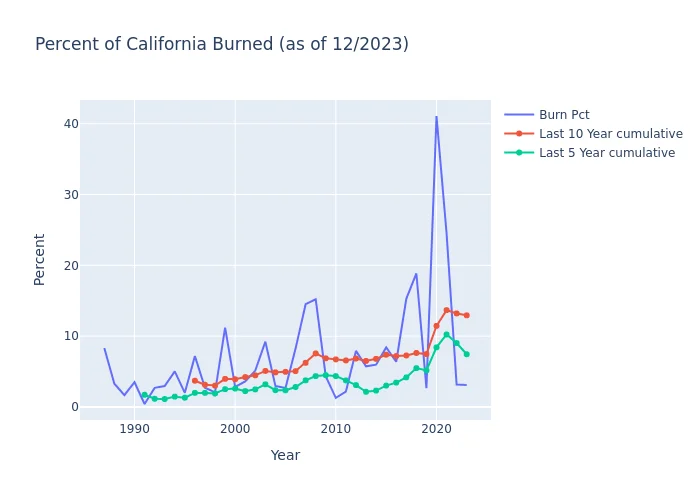
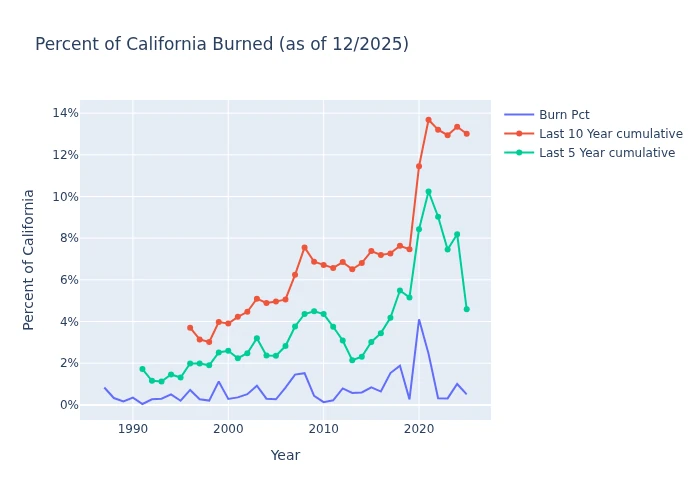
Update fire chart: per-year burn percentage was 10x too high
Regenerated from NickRoss/firestats@15fb089. The per-year series was
transcribed against a denominator 10x too small, so the chart claimed
41.09% of California burned in 2020 — the true figure is 4.11%.

The 5- and 10-year cumulative series were already correct, so the
"over the last 10 years fires burned more than 10% of the state" line
in content/research/2021_Fire_Data.md (13.01%) still holds and is
unchanged.

diff --git a/static/charts/fire_stats.html b/static/charts/fire_stats.html
@@ -1,7 +1,11 @@
+<!doctype html>
 <html>
-<head><meta charset="utf-8" /></head>
+<head>
+    <meta charset="utf-8" />
+    <style>html, body {height: 100%;}</style>
+</head>
 <body>
-    <div>                        <script type="text/javascript">window.PlotlyConfig = {MathJaxConfig: 'local'};</script>
-        <script charset="utf-8" src="https://cdn.plot.ly/plotly-2.30.0.min.js"></script>                <div id="49349b35-52e2-4d83-bbe2-0abdf59c44f2" class="plotly-graph-div" style="height:100%; width:100%;"></div>            <script type="text/javascript">                                    window.PLOTLYENV=window.PLOTLYENV || {};                                    if (document.getElementById("49349b35-52e2-4d83-bbe2-0abdf59c44f2")) {                    Plotly.newPlot(                        "49349b35-52e2-4d83-bbe2-0abdf59c44f2",                        [{"mode":"lines","name":"Burn Pct","x":[2025,2024,2023,2022,2021,2020,2019,2018,2017,2016,2015,2014,2013,2012,2011,2010,2009,2008,2007,2006,2005,2004,2003,2002,2001,2000,1999,1998,1997,1996,1995,1994,1993,1992,1991,1990,1989,1988,1987],"y":[5.01,10.02,3.1,3.16,24.53,41.09,2.65,18.85,15.27,6.39,8.41,5.97,5.74,7.92,2.18,1.28,4.31,15.21,14.51,8.24,2.67,2.97,9.22,5.14,3.6,2.82,11.2,2.06,2.71,7.18,2.0,5.02,2.96,2.7,0.42,3.49,1.66,3.29,8.33],"type":"scatter"},{"mode":"lines+markers","name":"Last 10 Year cumulative","x":[2025,2024,2023,2022,2021,2020,2019,2018,2017,2016,2015,2014,2013,2012,2011,2010,2009,2008,2007,2006,2005,2004,2003,2002,2001,2000,1999,1998,1997,1996,1995,1994,1993,1992,1991,1990,1989,1988,1987],"y":[13.01,13.35,12.94,13.21,13.68,11.45,7.47,7.63,7.27,7.19,7.38,6.8,6.5,6.85,6.57,6.72,6.87,7.56,6.24,5.06,4.96,4.89,5.09,4.47,4.22,3.91,3.97,3.02,3.14,3.71,null,null,null,null,null,null,null,null,null],"type":"scatter"},{"mode":"lines+markers","name":"Last 5 Year cumulative","x":[2025,2024,2023,2022,2021,2020,2019,2018,2017,2016,2015,2014,2013,2012,2011,2010,2009,2008,2007,2006,2005,2004,2003,2002,2001,2000,1999,1998,1997,1996,1995,1994,1993,1992,1991,1990,1989,1988,1987],"y":[4.58,8.19,7.45,9.03,10.24,8.42,5.16,5.49,4.18,3.44,3.02,2.31,2.14,3.09,3.75,4.36,4.49,4.36,3.76,2.82,2.36,2.37,3.2,2.48,2.24,2.6,2.51,1.9,1.99,1.99,1.31,1.46,1.12,1.16,1.72,null,null,null,null],"type":"scatter"}],                        {"template":{"data":{"histogram2dcontour":[{"type":"histogram2dcontour","colorbar":{"outlinewidth":0,"ticks":""},"colorscale":[[0.0,"#0d0887"],[0.1111111111111111,"#46039f"],[0.2222222222222222,"#7201a8"],[0.3333333333333333,"#9c179e"],[0.4444444444444444,"#bd3786"],[0.5555555555555556,"#d8576b"],[0.6666666666666666,"#ed7953"],[0.7777777777777778,"#fb9f3a"],[0.8888888888888888,"#fdca26"],[1.0,"#f0f921"]]}],"choropleth":[{"type":"choropleth","colorbar":{"outlinewidth":0,"ticks":""}}],"histogram2d":[{"type":"histogram2d","colorbar":{"outlinewidth":0,"ticks":""},"colorscale":[[0.0,"#0d0887"],[0.1111111111111111,"#46039f"],[0.2222222222222222,"#7201a8"],[0.3333333333333333,"#9c179e"],[0.4444444444444444,"#bd3786"],[0.5555555555555556,"#d8576b"],[0.6666666666666666,"#ed7953"],[0.7777777777777778,"#fb9f3a"],[0.8888888888888888,"#fdca26"],[1.0,"#f0f921"]]}],"heatmap":[{"type":"heatmap","colorbar":{"outlinewidth":0,"ticks":""},"colorscale":[[0.0,"#0d0887"],[0.1111111111111111,"#46039f"],[0.2222222222222222,"#7201a8"],[0.3333333333333333,"#9c179e"],[0.4444444444444444,"#bd3786"],[0.5555555555555556,"#d8576b"],[0.6666666666666666,"#ed7953"],[0.7777777777777778,"#fb9f3a"],[0.8888888888888888,"#fdca26"],[1.0,"#f0f921"]]}],"heatmapgl":[{"type":"heatmapgl","colorbar":{"outlinewidth":0,"ticks":""},"colorscale":[[0.0,"#0d0887"],[0.1111111111111111,"#46039f"],[0.2222222222222222,"#7201a8"],[0.3333333333333333,"#9c179e"],[0.4444444444444444,"#bd3786"],[0.5555555555555556,"#d8576b"],[0.6666666666666666,"#ed7953"],[0.7777777777777778,"#fb9f3a"],[0.8888888888888888,"#fdca26"],[1.0,"#f0f921"]]}],"contourcarpet":[{"type":"contourcarpet","colorbar":{"outlinewidth":0,"ticks":""}}],"contour":[{"type":"contour","colorbar":{"outlinewidth":0,"ticks":""},"colorscale":[[0.0,"#0d0887"],[0.1111111111111111,"#46039f"],[0.2222222222222222,"#7201a8"],[0.3333333333333333,"#9c179e"],[0.4444444444444444,"#bd3786"],[0.5555555555555556,"#d8576b"],[0.6666666666666666,"#ed7953"],[0.7777777777777778,"#fb9f3a"],[0.8888888888888888,"#fdca26"],[1.0,"#f0f921"]]}],"surface":[{"type":"surface","colorbar":{"outlinewidth":0,"ticks":""},"colorscale":[[0.0,"#0d0887"],[0.1111111111111111,"#46039f"],[0.2222222222222222,"#7201a8"],[0.3333333333333333,"#9c179e"],[0.4444444444444444,"#bd3786"],[0.5555555555555556,"#d8576b"],[0.6666666666666666,"#ed7953"],[0.7777777777777778,"#fb9f3a"],[0.8888888888888888,"#fdca26"],[1.0,"#f0f921"]]}],"mesh3d":[{"type":"mesh3d","colorbar":{"outlinewidth":0,"ticks":""}}],"scatter":[{"fillpattern":{"fillmode":"overlay","size":10,"solidity":0.2},"type":"scatter"}],"parcoords":[{"type":"parcoords","line":{"colorbar":{"outlinewidth":0,"ticks":""}}}],"scatterpolargl":[{"type":"scatterpolargl","marker":{"colorbar":{"outlinewidth":0,"ticks":""}}}],"bar":[{"error_x":{"color":"#2a3f5f"},"error_y":{"color":"#2a3f5f"},"marker":{"line":{"color":"#E5ECF6","width":0.5},"pattern":{"fillmode":"overlay","size":10,"solidity":0.2}},"type":"bar"}],"scattergeo":[{"type":"scattergeo","marker":{"colorbar":{"outlinewidth":0,"ticks":""}}}],"scatterpolar":[{"type":"scatterpolar","marker":{"colorbar":{"outlinewidth":0,"ticks":""}}}],"histogram":[{"marker":{"pattern":{"fillmode":"overlay","size":10,"solidity":0.2}},"type":"histogram"}],"scattergl":[{"type":"scattergl","marker":{"colorbar":{"outlinewidth":0,"ticks":""}}}],"scatter3d":[{"type":"scatter3d","line":{"colorbar":{"outlinewidth":0,"ticks":""}},"marker":{"colorbar":{"outlinewidth":0,"ticks":""}}}],"scattermapbox":[{"type":"scattermapbox","marker":{"colorbar":{"outlinewidth":0,"ticks":""}}}],"scatterternary":[{"type":"scatterternary","marker":{"colorbar":{"outlinewidth":0,"ticks":""}}}],"scattercarpet":[{"type":"scattercarpet","marker":{"colorbar":{"outlinewidth":0,"ticks":""}}}],"carpet":[{"aaxis":{"endlinecolor":"#2a3f5f","gridcolor":"white","linecolor":"white","minorgridcolor":"white","startlinecolor":"#2a3f5f"},"baxis":{"endlinecolor":"#2a3f5f","gridcolor":"white","linecolor":"white","minorgridcolor":"white","startlinecolor":"#2a3f5f"},"type":"carpet"}],"table":[{"cells":{"fill":{"color":"#EBF0F8"},"line":{"color":"white"}},"header":{"fill":{"color":"#C8D4E3"},"line":{"color":"white"}},"type":"table"}],"barpolar":[{"marker":{"line":{"color":"#E5ECF6","width":0.5},"pattern":{"fillmode":"overlay","size":10,"solidity":0.2}},"type":"barpolar"}],"pie":[{"automargin":true,"type":"pie"}]},"layout":{"autotypenumbers":"strict","colorway":["#636efa","#EF553B","#00cc96","#ab63fa","#FFA15A","#19d3f3","#FF6692","#B6E880","#FF97FF","#FECB52"],"font":{"color":"#2a3f5f"},"hovermode":"closest","hoverlabel":{"align":"left"},"paper_bgcolor":"white","plot_bgcolor":"#E5ECF6","polar":{"bgcolor":"#E5ECF6","angularaxis":{"gridcolor":"white","linecolor":"white","ticks":""},"radialaxis":{"gridcolor":"white","linecolor":"white","ticks":""}},"ternary":{"bgcolor":"#E5ECF6","aaxis":{"gridcolor":"white","linecolor":"white","ticks":""},"baxis":{"gridcolor":"white","linecolor":"white","ticks":""},"caxis":{"gridcolor":"white","linecolor":"white","ticks":""}},"coloraxis":{"colorbar":{"outlinewidth":0,"ticks":""}},"colorscale":{"sequential":[[0.0,"#0d0887"],[0.1111111111111111,"#46039f"],[0.2222222222222222,"#7201a8"],[0.3333333333333333,"#9c179e"],[0.4444444444444444,"#bd3786"],[0.5555555555555556,"#d8576b"],[0.6666666666666666,"#ed7953"],[0.7777777777777778,"#fb9f3a"],[0.8888888888888888,"#fdca26"],[1.0,"#f0f921"]],"sequentialminus":[[0.0,"#0d0887"],[0.1111111111111111,"#46039f"],[0.2222222222222222,"#7201a8"],[0.3333333333333333,"#9c179e"],[0.4444444444444444,"#bd3786"],[0.5555555555555556,"#d8576b"],[0.6666666666666666,"#ed7953"],[0.7777777777777778,"#fb9f3a"],[0.8888888888888888,"#fdca26"],[1.0,"#f0f921"]],"diverging":[[0,"#8e0152"],[0.1,"#c51b7d"],[0.2,"#de77ae"],[0.3,"#f1b6da"],[0.4,"#fde0ef"],[0.5,"#f7f7f7"],[0.6,"#e6f5d0"],[0.7,"#b8e186"],[0.8,"#7fbc41"],[0.9,"#4d9221"],[1,"#276419"]]},"xaxis":{"gridcolor":"white","linecolor":"white","ticks":"","title":{"standoff":15},"zerolinecolor":"white","automargin":true,"zerolinewidth":2},"yaxis":{"gridcolor":"white","linecolor":"white","ticks":"","title":{"standoff":15},"zerolinecolor":"white","automargin":true,"zerolinewidth":2},"scene":{"xaxis":{"backgroundcolor":"#E5ECF6","gridcolor":"white","linecolor":"white","showbackground":true,"ticks":"","zerolinecolor":"white","gridwidth":2},"yaxis":{"backgroundcolor":"#E5ECF6","gridcolor":"white","linecolor":"white","showbackground":true,"ticks":"","zerolinecolor":"white","gridwidth":2},"zaxis":{"backgroundcolor":"#E5ECF6","gridcolor":"white","linecolor":"white","showbackground":true,"ticks":"","zerolinecolor":"white","gridwidth":2}},"shapedefaults":{"line":{"color":"#2a3f5f"}},"annotationdefaults":{"arrowcolor":"#2a3f5f","arrowhead":0,"arrowwidth":1},"geo":{"bgcolor":"white","landcolor":"#E5ECF6","subunitcolor":"white","showland":true,"showlakes":true,"lakecolor":"white"},"title":{"x":0.05},"mapbox":{"style":"light"}}},"yaxis":{"title":{"text":"Percent"},"tickformat":".2f%"},"title":{"text":"Percent of California Burned (as of 12\u002f2025)"},"xaxis":{"title":{"text":"Year"}}},                        {"responsive": true}                    )                };                            </script>        </div>
+    <div style="height:100%; width:100%;">                        <script>window.PlotlyConfig = {MathJaxConfig: 'local'};</script>
[1 lines of base64/hex data omitted]
 </body>
 </html>
